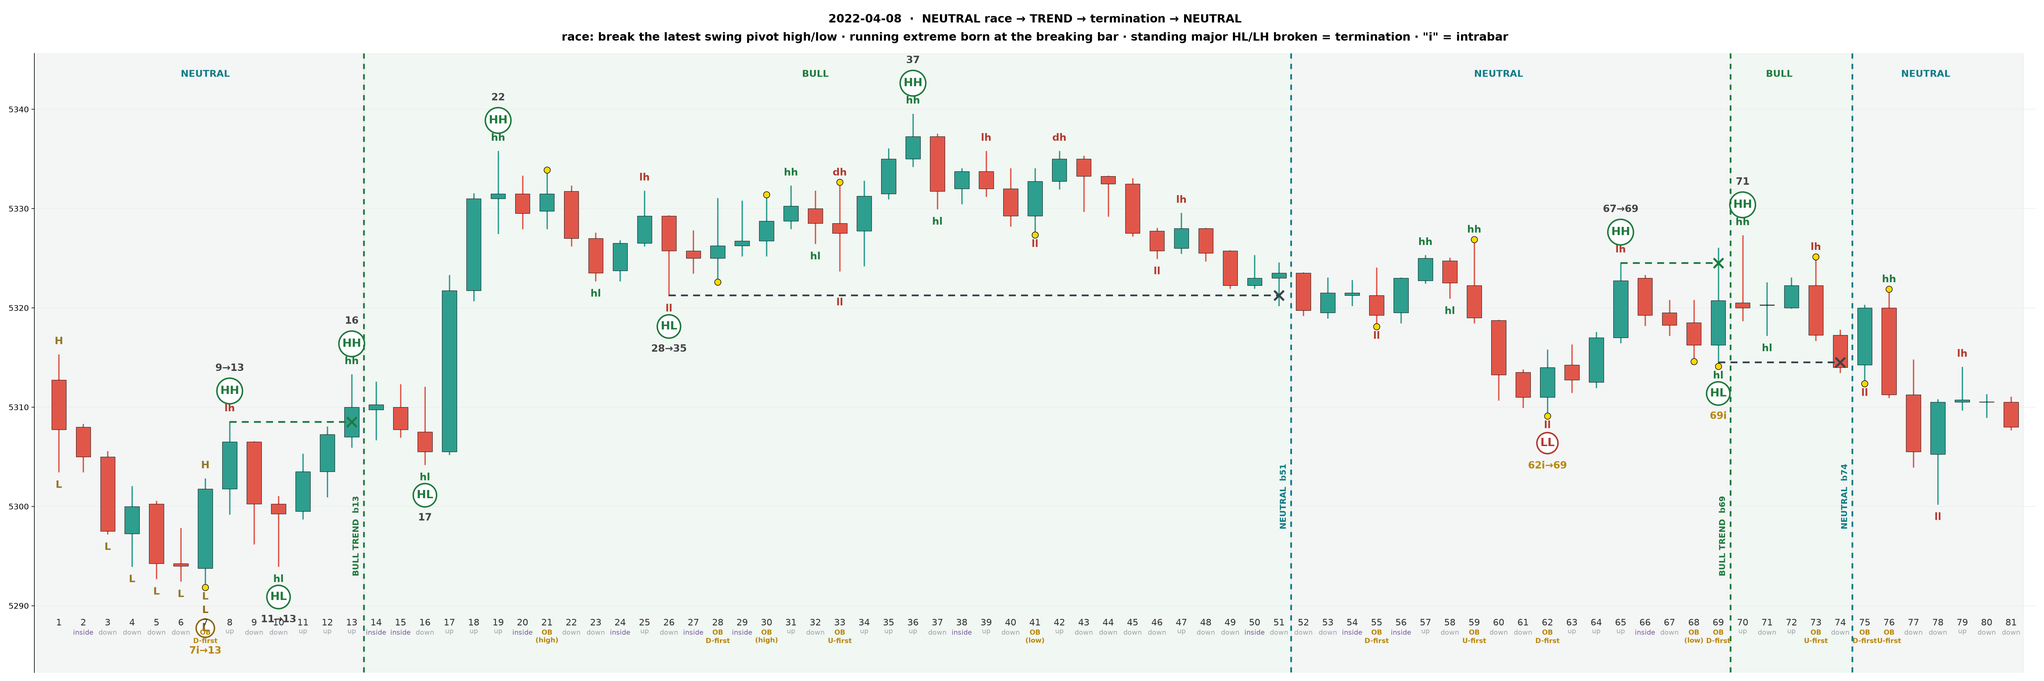
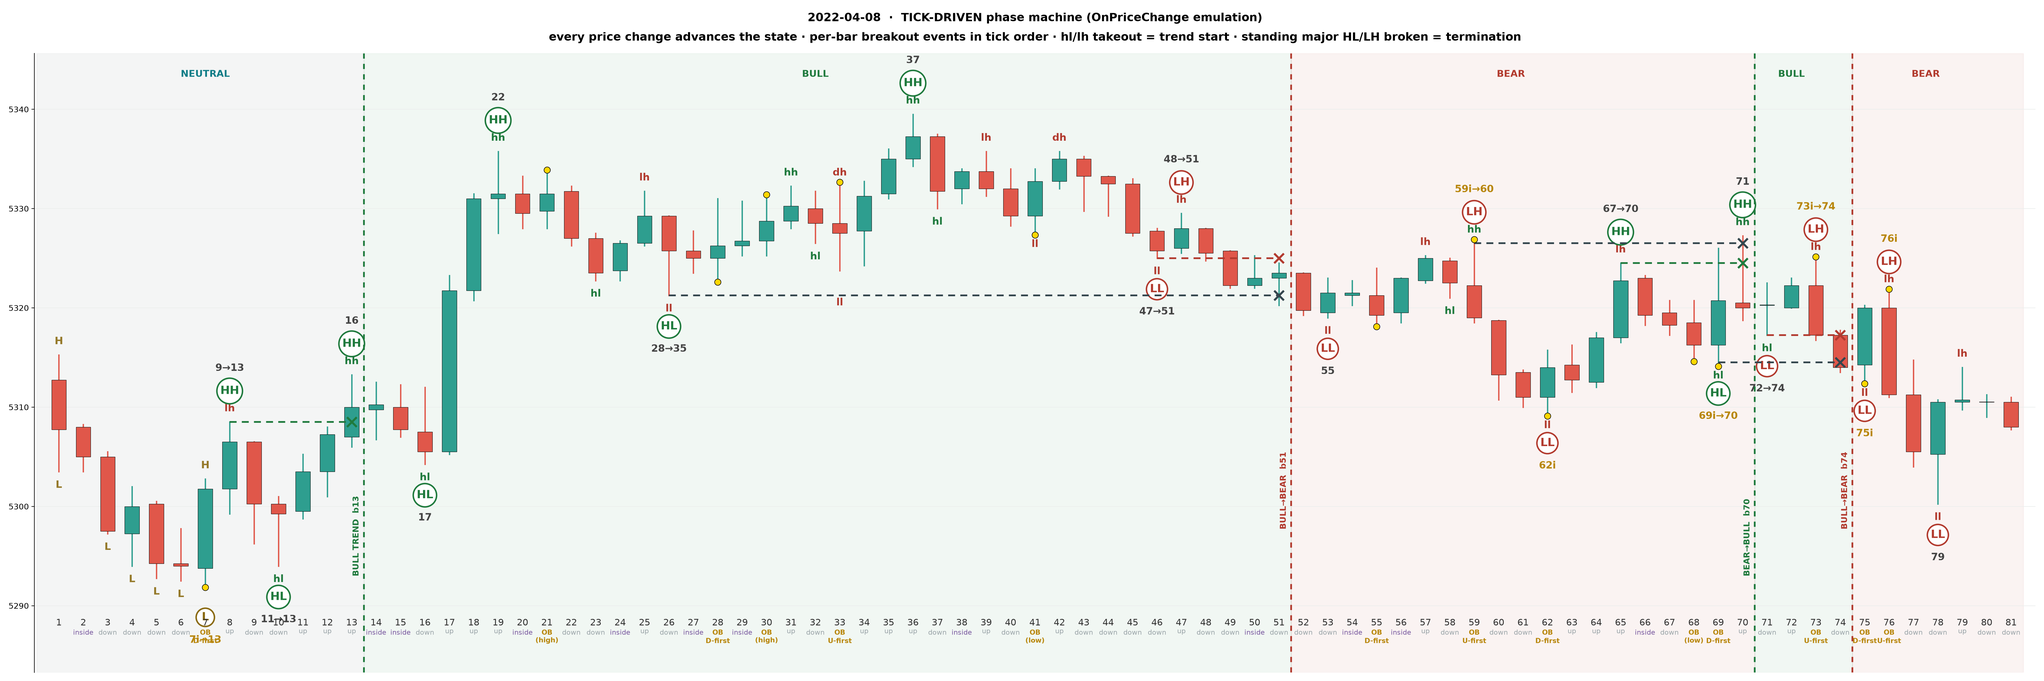
feat(regime-v2): immediate-flip rule + leg-continuation fix in the phase machine
Two new rules taught live against 2024-08-20 and 2023-04-12, plus a real bug
the second one exposed and fixed.

IMMEDIATE FLIP (2024-08-20, b56): counter-trend minor structure that forms
INSIDE a dying trend (tracked continuously now, in every mode) can satisfy the
OPPOSITE race on the same tick that terminates the trend - a bear's own minor
hh+hl breaks its own LH and starts a bull with no neutral pause. Guarded so
the enabling partner must postdate the candidate, or it fires on any leftover
structure and spuriously flips terminations that were already validated.

LEG CONTINUATION (2023-04-12, b12/b13): the leg and tag-comparison chain no
longer reset at trend termination - only the regime state (mode/standing/
candidate/race trackers) does. The down-leg from b11 was still running
through b12 when the bull terminated there; killing the leg at that instant
discarded it, so b13's up-tick opened a brand-new leg instead of closing the
real one and b12 never became the pivot it should have been. With the leg
left alone, b13 correctly confirms b12 as a minor ll (vs the real prior
pivot b10) and the bear starts at b13 - exactly as taught.

An earlier same-session attempt at this fix (touch prevH/prevL only on the
side that broke, to fix 04-10's b25/b26 two-legs-down reading) was a step in
the right direction but caused a self-reference bug when the termination bar
itself later becomes a pivot. The final fix supersedes it: touch neither
[…]

diff --git a/scratchpad/regime_phase_machine.py b/scratchpad/regime_phase_machine.py
@@ -76,6 +76,12 @@ trend_starts = []  # (bar, "bull"|"bear", broken_pivot_bar)
 terms = []         # (standing_bar, standing_px, break_bar, "bull"|"bear")
 race_lines = []    # (pivot_bar, px, break_bar, "bull"|"bear")
 neutral_spans = [] # (start_bar, end_bar)
+transitions = []   # (bar, "start"|"term", side) in TRUE firing order - same-bar events can
+                    # go either way: term-then-start on an immediate flip (terminate() calls
+                    # start_trend()), or start-then-term when a wide/OB bar ticks through a
+                    # fresh trigger and then straight through its own brand-new standing
+                    # level (04-10 b78: starts bull, dies bull, same bar). A bar-number sort
+                    # can't tell these apart; only insertion order can.
 
 prevH = prevL = 0
 first_pivot_done = False
@@ -104,16 +110,22 @@ def add_pivot(bar, side, emit):
     piv.append(p)
     log.append((emit, "pivot %s on b%d (%s)%s" % (side, bar + 1, disp,
                 "  [intrabar]" if emit == bar else "")))
-    if mode == "NEUTRAL":
-        if side == "H":
-            lsh = p
-            if hi_p is None or H[bar] > H[hi_p["bar"]]: hi_p = p
-            if t == "lh" or len(disp) == 1: has_lh = True; struct_lh = p
-        else:
-            lsl = p
-            if lo_p is None or L[bar] < L[lo_p["bar"]]: lo_p = p
-            if t == "hl" or len(disp) == 1: has_hl = True; struct_hl = p
-    elif mode == "BULL" and side == "L":
+    # Latest-pivot / structure trackers run in EVERY mode, not just NEUTRAL - reset at every
+    # mode transition (start_trend / terminate), accumulated continuously in between. In
+    # NEUTRAL they drive the entry race; in TREND they capture the counter-trend minor
+    # structure forming INSIDE the trend (e.g. a bear's own minor hh + hl), which the next
+    # termination checks for an IMMEDIATE flip straight to the opposite trend (08-20: b53
+    # minor hh + b55 minor hl -> b56 breaks the bear's LH and fires bull on the same tick,
+    # no neutral pause) instead of always parking in neutral to wait for fresh pivots.
+    if side == "H":
+        lsh = p
+        if hi_p is None or H[bar] > H[hi_p["bar"]]: hi_p = p
+        if t == "lh" or len(disp) == 1: has_lh = True; struct_lh = p
+    else:
+        lsl = p
+        if lo_p is None or L[bar] < L[lo_p["bar"]]: lo_p = p
+        if t == "hl" or len(disp) == 1: has_hl = True; struct_hl = p
+    if mode == "BULL" and side == "L":
         # ONE candidate: a DEEPER low replaces it (old stays minor); otherwise minor forever
         if cand is None or L[bar] < L[cand["p"]["bar"]]:
             cand = dict(p=p, ref_px=run_px)
@@ -133,6 +145,7 @@ def add_pivot(bar, side, emit):
 
 def start_trend(up, b, px):
     global mode, standing, run_b, run_px, cand
+    global hi_p, lo_p, lsh, lsl, has_hl, has_lh, struct_hl, struct_lh
     side = "bull" if up else "bear"
     broken = lsh if up else lsl
     partner = struct_hl if up else struct_lh
@@ -148,28 +161,64 @@ def start_trend(up, b, px):
         opp["majlab"] = (opp["disp"] if len(opp["disp"]) == 1 else opp["tag"].upper())
     race_lines.append((broken["bar"], H[broken["bar"]] if up else L[broken["bar"]], b, side))
     trend_starts.append((b, side, broken["bar"]))
+    transitions.append((b, "start", side))
     neutral_spans.append((neu_start, b))
     standing = None
     if partner is not None:
         standing = (partner["bar"], L[partner["bar"]] if up else H[partner["bar"]])
     run_b, run_px = b, px            # running extreme born at the breaking tick
     mode = "BULL" if up else "BEAR"; cand = None
+    hi_p = lo_p = lsh = lsl = None; has_hl = has_lh = False   # fresh scope for the new trend
+    struct_hl = struct_lh = None
     log.append((b, "*** %s TREND STARTS - b%d breaks the b%d pivot"
                 % (side.upper(), b + 1, broken["bar"] + 1)))
 
 
-def terminate(b):
+def terminate(b, px):
     global mode, standing, run_b, run_px, cand, d, leg_px, leg_bar, neu_start
     global hi_p, lo_p, lsh, lsl, has_hl, has_lh, struct_hl, struct_lh, prevH, prevL
+    was_bull = (mode == "BULL")
     terms.append((standing[0], standing[1], b, mode.lower()))
-    log.append((b, "*** %s TREND TERMINATED - b%d breaks the b%d %s -> NEUTRAL"
-                % (mode, b + 1, standing[0] + 1, "HL" if mode == "BULL" else "LH")))
+    transitions.append((b, "term", mode.lower()))
+    # IMMEDIATE FLIP: the counter-trend minor structure already formed INSIDE the dying
+    # trend (lsh/has_hl or lsl/has_lh, tracked continuously - see add_pivot) may already
+    # satisfy the OPPOSITE race at this same tick. If so, skip neutral and start the new
+    # trend right away (08-20 b56: bear's own minor hh@53 + hl@55 -> bull fires on the
+    # break, not after a fresh seed forms).
+    # the enabling partner must have formed AFTER the candidate (hh THEN hl, b53 then b55 -
+    # not some stale lh from back near the trend's own start) or this fires on ANY leftover
+    # structure, which spuriously flipped the validated b71/b74 terminations in testing
+    flip_up = (not was_bull) and lsh is not None and px > H[lsh["bar"]] and has_hl \
+              and struct_hl is not None and struct_hl["bar"] > lsh["bar"]
+    flip_dn = was_bull and lsl is not None and px < L[lsl["bar"]] and has_lh \
+              and struct_lh is not None and struct_lh["bar"] > lsl["bar"]
+    log.append((b, "*** %s TREND TERMINATED - b%d breaks the b%d %s%s"
+                % (mode, b + 1, standing[0] + 1, "HL" if was_bull else "LH",
+                   "" if (flip_up or flip_dn) else " -> NEUTRAL")))
     mode = "NEUTRAL"; neu_start = b
     cand = None; standing = None; run_b = run_px = None
-    hi_p = lo_p = lsh = lsl = None; has_hl = has_lh = False
-    struct_hl = struct_lh = None
-    prevH = b; prevL = b             # termination bar joins the comparison chain, never a pivot
-    d = None; leg_px = leg_bar = None    # the open leg dies with the trend
+    # prevH/prevL are NOT touched here at all - termination is purely a REGIME-state event.
+    # An earlier version forced the termination bar onto the comparison chain (on the side
+    # that broke), which fixed 04-10's b25 (correctly reading lh vs b14, not the b21
+    # termination bar) - but it broke the moment the termination bar ITSELF later turns out
+    # to be a genuine pivot (2023-04-12 b12: comparing L[12] to a prevL that had JUST been
+    # set to b12 is a self-reference, producing dl instead of the real ll vs b10). Leaving
+    # prevH/prevL untouched resolves both: whatever pivot forms next - on the termination
+    # bar itself or later - naturally compares against the real last prior pivot, because
+    # the tag chain was never interrupted in the first place.
+    # The LEG ITSELF does NOT reset at termination - it keeps running exactly as it would
+    # have anyway. Killing it here was an unvalidated guess that broke real structure
+    # (2023-04-12: the down-leg from b11 was running through b12 when the bull terminated
+    # AT b12; resetting the leg discarded that leg entirely, so b13's up-tick opened a
+    # brand-new leg instead of closing the real one, and b12 never got to be the pivot it
+    # should be - "b13 triggers above b12, which makes b12 a minor ll"). Only the REGIME
+    # state (mode/standing/cand/race trackers) belongs to the trend and resets with it.
+    if flip_up or flip_dn:
+        log.append((b, "    counter-trend structure already satisfies the race -> immediate flip"))
+        start_trend(flip_up, b, px)  # uses the still-populated lsh/lsl/struct_*/hi_p/lo_p
+    else:
+        hi_p = lo_p = lsh = lsl = None; has_hl = has_lh = False
+        struct_hl = struct_lh = None
 
 
 # ============================ TICK LOOP — OnPriceChange emulation ============================
@@ -223,7 +272,7 @@ for _t in range(len(tP)):
         if mode == "BEAR" and px < run_px: run_b, run_px = b, px
         if standing is not None:
             if (mode == "BULL" and px < standing[1]) or (mode == "BEAR" and px > standing[1]):
-                terminate(b)
+                terminate(b, px)
 
 if mode == "NEUTRAL":
     neutral_spans.append((neu_start, n - 1))
@@ -269,10 +318,12 @@ vhi = H.max(); vlo = L.min(); rng = vhi - vlo; off = rng * 0.021
 fig, ax = plt.subplots(figsize=(36, 12), dpi=200)
 
 segs = []
-bounds = sorted([(s_, "start", sd) for (s_, sd, _) in trend_starts] +
-                [(b_, "term", None) for (_, _, b_, _) in terms])
+# walk `transitions` in TRUE firing order (stable sort by bar preserves same-bar insertion
+# order) - a bar-number-only sort can't distinguish term-then-start (flip) from
+# start-then-term (a wide bar that starts a trend and kills it before the bar even ends,
+# e.g. 04-10 b78), and guessing wrong mislabels every bar after it
 cur = "neutral"; x0 = 0
-for (xb, ktp, sd) in bounds:
+for (xb, ktp, sd) in sorted(transitions, key=lambda e: e[0]):
     segs.append((x0, xb, cur)); x0 = xb
     cur = sd if ktp == "start" else "neutral"
 segs.append((x0, n - 1, cur))
@@ -343,12 +394,29 @@ for (pb, px_, bb_, sdv) in terms:
     ax.plot([pb, bb_], [px_, px_], ls=(0, (4, 3)), lw=2.2, color="#33454d", zorder=5)
     ax.plot(bb_, px_, "x", ms=12, mew=2.6, color="#33454d", zorder=6)
 
-_evt = ([(bb_, "term", sdv) for (_, _, bb_, sdv) in terms] +
-        [(sb, "start", sdv) for (sb, sdv, _) in trend_starts])
-_evt.sort()
+# group by bar in TRUE firing order (see `transitions`). A term-then-start pair with
+# OPPOSITE sides is a genuine immediate flip -> one merged arrow label (08-20 b56: bear
+# terminates, bull starts, same tick). Any other same-bar combination (e.g. start-then-term,
+# same side - 04-10 b78: a wide bar starts a bull and kills it before the bar ends) is NOT a
+# flip and gets two separate, correctly-ordered labels instead of a misleading merge.
+_by_bar = {}
+for (xb, ktp, sd) in transitions:
+    _by_bar.setdefault(xb, []).append((ktp, sd))
+_evt = []
+for xb, evs in _by_bar.items():
+    if len(evs) == 2 and evs[0][0] == "term" and evs[1][0] == "start" and evs[0][1] != evs[1][1]:
+        _evt.append((xb, "flip", (evs[0][1], evs[1][1])))
+    else:
+        for (ktp, sd) in evs:
+            _evt.append((xb, ktp, sd))
+_evt.sort(key=lambda e: e[0])
 for _k, (xb, ekind, sdv) in enumerate(_evt):
     if ekind == "term":
         col = "#0e7c86"; txt = "NEUTRAL  b%d" % (xb + 1)
+    elif ekind == "flip":
+        was, now = sdv
+        col = "#1f7a3d" if now == "bull" else "#b23a2e"
+        txt = "%s→%s  b%d" % (was.upper(), now.upper(), xb + 1)
     else:
         col = "#1f7a3d" if sdv == "bull" else "#b23a2e"
         txt = "%s TREND  b%d" % (sdv.upper(), xb + 1)

diff --git a/docs/living/handoff.md b/docs/living/handoff.md
@@ -1,66 +1,122 @@
 # Handoff — Current State
 **Status:** Living — update every session  
-**Last Updated:** July 23, 2026 (⭐ TICK-DRIVEN phase machine — full regime rule set taught by Samir, both reference days reproduce exactly; the target is a live NT8 OnPriceChange indicator)
+**Last Updated:** July 23, 2026, evening pass (⭐ TICK-DRIVEN phase machine — immediate-flip
+rule + leg-continuation fix, both taught live against 2024-08-20 and 2023-04-12; both
+reference days still reproduce exactly; 12 charts rendered on the final engine)
 
 ---
 
-## ⭐ TICK-DRIVEN REGIME MACHINE — the full rule set (2026-07-23, branch `main`)
+## ⭐ TICK-DRIVEN REGIME MACHINE — immediate flips + the leg-continuation fix (2026-07-23 evening, branch `main`)
 
 **`scratchpad/regime_phase_machine.py` (v4) is the working model of the regime engine and the
 single source of truth for the rules.** The end goal is a LIVE NT8 indicator running
 `Calculate.OnPriceChange`; the script emulates exactly that on historical ticks — **the
-machine's clock is EVERY PRICE CHANGE**, bars are only bookkeeping. Samir: "emulate the
-indicator's logic even when you draw these charts." Runs any day:
+machine's clock is EVERY PRICE CHANGE**, bars are only bookkeeping. Runs any day:
 `python scratchpad/regime_phase_machine.py YYYY-MM-DD` → `docs/living/phase_machine_<date>.png`.
+This session added two real rules and fixed one bug that both rules exposed — see below.
+**Not committed to `scripts/brooks_regime_layer.py` yet** — still lives only in the scratch
+phase machine.
 
-### The rule set (all taught/validated bar-by-bar with Samir on 02-24 + 04-12)
+### The rule set (all taught/validated against 02-24 + 04-12 + 2024-08-20 + 2023-04-12)
 1. **Events:** each bar has at most two — the FIRST tick above the prior bar's high and the
    FIRST tick below the prior bar's low, in tick order. An OB is two consecutive steps
-   sharing a bar; each event applies the regime logic against live state, and every price
-   change advances race/promotion/termination checks. (This dissolved ALL the OB special
-   cases — the earlier bar-loop machine kept tripping precisely because it checked state
-   once per bar.) Equal bar = perfect inside bar (strict comparisons, free).
+   sharing a bar; each event applies the regime logic against live state. Equal bar =
+   perfect inside bar (strict comparisons, free).
 2. **Pivots:** an event that closes a leg drops the pivot on the bar holding the leg's
    tick-accurate extreme (can be an earlier bar). Day's first pivot = single gold letter.
-   Minor tags currently compare vs the prior same-side PIVOT (Samir's convention may be
-   two-bar tags — open display question). Terminations kill the open leg: the termination
-   bar can never carry a pivot, but its extremes join the tag-comparison chain (b43 on
-   04-12 reads lh vs b41's high).
-3. **NEUTRAL + the race:** day opens neutral; every termination returns there. Pivots keep
-   forming (b43!). A tick above the latest swing-high pivot with an **hl present** → BULL;
-   a tick below the latest swing-low pivot with an **lh present** → BEAR ("hl gets taken
-   out in a neutral phase", same logic as b31/b50; single-letter first pivots count as
-   compatible). OBs can do it intrabar: b50 (bear, U confirms the b49 hl then D takes it
-   out), b76 (bull mirror). b45 could NOT start a bull: lows were ll — no hl. At the start:
-   broken pivot → HH/LL, enabling hl/lh → HL/LH (standing level), phase's opposite-extreme
-   pivot → uppercased tag (b25→HH); running trend extreme born at the breaking tick.
-4. **TREND:** a swing pivot that IS the running extreme (identity test, bar==run_b — an
-   equal low is a dl, never a new extreme: b19) → major continuation HH/LL at its turn.
-   Counter-trend pivots: ONE-candidate contest (deeper replaces, replaced stays minor
-   forever); promotion when a tick exceeds the running extreme that stood at candidate-set
-   → major HL/LH = the STANDING level. A tick through the standing level TERMINATES.
-5. **Chart conventions:** dashed level from pivot to its break + ✗, dotted verticals at
-   starts/terminations (no price labels), state shading, "i" = intrabar confirm,
-   "N→M" = known at N, promoted major at M, gold dots = OB first-break side.
+   Minor tags compare vs the prior same-side PIVOT (Samir's convention may be two-bar tags —
+   open display question).
+3. **⭐ THE LEG DOES NOT RESET AT TERMINATION (new, fixes a real bug).** Only the REGIME
+   state (mode/standing/cand/race trackers) belongs to the trend and resets when it
+   terminates; the underlying leg (`d`/`leg_bar`) and the tag-comparison chain
+   (`prevH`/`prevL`) keep running exactly as they would have anyway, completely untouched by
+   termination. **Taught via 2023-04-12: bull terminates at b12 (breaks the b10 HL); the
+   down-leg from b11 was still running THROUGH b12 at that moment.** The old code killed the
+   leg right there, so b13's up-tick (b13 is an OB) opened a brand-new leg instead of closing
+   the real one — b12 never became the pivot it should have been. With the leg left alone:
+   b13 ticks above b12 → **confirms b12 as a genuine minor `ll`** (vs the real prior L-pivot
+   b10, not a self-reference) → b13 ticks below → BEAR STARTS AT B13, both b12→LL and
+   b13→LH promoted together. Exactly Samir's read: *"b13 triggers above b12 (makes b12 a
+   minor ll), then triggers below b12's ll and makes a LL — bear trend starting on b13."**
+   An **earlier same-session fix attempt** (only update `prevH`/`prevL` on the side that
+   broke, to fix 04-10's b25/b26 — see below) was a step in the right direction but caused a
+   **self-reference bug**: when the termination bar itself later becomes a pivot (like b12
+   here), comparing it against a `prevL` that had JUST been set to point at itself produces a
+   meaningless `dl` instead of the real `ll`. **The final fix supersedes it**: touch NEITHER
+   prevH nor prevL at termination, ever. Both the b25/04-10 case and the b12/2023-04-12 case
+   resolve correctly this way, because the chain was simply never interrupted.
+4. **⭐ TWO-LEGS-DOWN / two-legs-up (04-10, b26).** Because the leg and tag chain now run
+   continuously, a lower high that forms AFTER a termination correctly compares against the
+   real pre-termination high (b14), not the termination bar's arbitrary price (b21) — so b25
+   properly tags `lh`, `has_lh` goes true, and the bear fires at **b26** (breaking b22) the
+   moment real two-legs-down structure exists, rather than waiting until b33 for a fresh lh
+   to form from scratch. This was a genuine display/logic bug in the ORIGINAL (pre-tonight)
+   engine, not a new rule — the two-legs-down pattern was always supposed to be visible.
+5. **⭐ IMMEDIATE FLIP (2024-08-20, b56).** Counter-trend minor structure that forms INSIDE a
+   dying trend (tracked continuously now, in every mode — `lsh`/`lsl`/`has_hl`/`has_lh`) can
+   satisfy the OPPOSITE race on the SAME tick that terminates the trend. b53 (minor hh) + b55
+   (minor hl), both formed while still technically in the bear, break the bear's own LH (b41)
+   AND independently clear b53 at the same instant → BULL STARTS AT B56, no neutral pause.
+   Guard: the enabling partner must postdate the candidate (b55 after b53) — an unguarded
+   version fired on ANY leftover structure and spuriously flipped the validated b71/b74
+   terminations on 02-24/04-12 during testing. Confirmed fires again on 04-08 (3x), 04-10
+   (b38, b78), 2023-04-12 (b30), 2022-02-17 (b37), 2025-04-14 (b77), 2021-09-28 (b76),
+   2024-03-01 (b33, b68).
+6. **NEUTRAL + the race:** day opens neutral; every termination returns there (or, per #5,
+   immediately into the opposite trend). A tick above the latest swing-high pivot with an
+   **hl present** → BULL; below the latest swing-low with an **lh present** → BEAR. At the
+   start: broken pivot → HH/LL, enabling hl/lh → HL/LH (standing level), phase's
+   opposite-extreme pivot → uppercased tag (b25→HH on 04-12, blessed on his NT chart —
+   same-tag duplicate on 2023-04-12's b13/b17 (both LH) is this SAME mechanism, not a bug:
+   opp=highest-price pivot in phase vs partner=latest pivot, here both happen to already be
+   tagged `lh`). Running trend extreme born at the breaking tick.
+7. **TREND:** a swing pivot that IS the running extreme (identity test, `bar==run_b`) → major
+   continuation HH/LL at its turn. Counter-trend pivots: ONE-candidate contest (deeper
+   replaces, replaced stays minor forever); promotion when a tick exceeds the running extreme
+   that stood at candidate-set → major HL/LH = the STANDING level. A tick through it
+   TERMINATES.
+8. **Chart / display:** same-bar term+start pairs need TRUE firing order, not a bar-number
+   sort — term-then-start (an immediate flip) vs start-then-term (a wide/OB bar that starts a
+   trend and kills it before the bar ends, e.g. 04-10 b78, real and tick-verified) are
+   opposite orderings and guessing wrong mislabels every bar after. Fixed via a `transitions`
+   list appended in true chronological order; the merged "X→Y" arrow label is used ONLY for
+   genuine opposite-side flips, never for a same-side start-then-term.
+
+### ⚠ Documentation correction
+Last session's note **"b43 on 04-12 reads lh vs b41's high" was wrong** — b41's high
+(5256.50) is genuinely above the prior H-pivot b38 (5254.00), so `hh` is mechanically
+correct by the same rule every other tag uses. b41 was never a major pivot either way, so
+this never affected any trend timing — it was a documentation error (likely conflated with
+the real b43 teaching, which is about 2024-08-20's b43/b44/b45, not 04-12).
 
 ### Validation state
-- **2022-02-24** (bull ref) and **2022-04-12** (bear ref): reproduce Samir's bar-by-bar
-  teaching EXACTLY on the tick engine (starts b9/b71/b77 and b10/b22/b31/b41/b50/b74/b76).
-- Rendered BLIND, unreviewed: 2022-04-08, 2023-04-12, 2023-10-26, 2022-02-17. The choppy
-  days (2023-04-12, 2023-10-26) show fast trend/neutral churn (3-5 bar trends, b79 on
-  10-26 starts and terminates the same bar) → likely where the S72 **ATTEMPT states** live.
+- **2022-02-24** (bull) and **2022-04-12** (bear): reproduce Samir's bar-by-bar teaching
+  EXACTLY, pivot-tag-by-pivot-tag (checked in full this time, not just the starts/terms
+  summary — the summary alone already missed one regression during tonight's work).
+- **2024-08-20** and **2023-04-12**: the two days the new rules were taught against; both
+  match Samir's read exactly (b56 flip; b13 bear start).
+- Rendered and RE-rendered on the final engine, still unreviewed by Samir: 2022-04-08,
+  2023-10-26, 2022-02-17, 2025-04-14, 2022-11-14, 2021-09-28, 2024-03-01, 2024-04-10. Three
+  of these picked up genuinely NEW legs from the leg-continuation fix that weren't visible
+  before (more structure recognized, not less) — worth a first look: **2022-02-17** (new
+  bull b28→n31), **2025-04-14** (new bull b7→n10, new bear b42→n43), **2022-11-14** (new
+  bear b58→n61).
 
 ### OPEN
-1. Review the blind days with Samir; decide whether fast flips are full trends or ATTEMPTs
-   (the last conceptual gap to the 5-state BULL/BULL_ATTEMPT/NEUTRAL/BEAR_ATTEMPT/BEAR).
-2. For review: opposite-extreme promotion at a start (b25→HH blessed on his NT chart;
-   mirror gives 02-24 b72→LL@77 which was previously minor — flagged, not yet ruled on).
-3. Minor-tag convention: pivot-chain (current) vs raw two-bar tag (his NT chart) — display.
-4. Port to NT8 C# (`Calculate.OnPriceChange`) — the tick loop body IS the handler. Also
-   decide fate of `scripts/brooks_regime_layer.py` (still pre-equal-bar-fix divergent
-   `brooks_structure_engine.py`; the phase machine supersedes both for regime purposes).
-5. Artifacts (zoomable): 02-24 `5b99e290`, 04-12 `bf90a2b5`, 04-08 `911170f3`,
-   2023-04-12 `084292c2`, 10-26 `07eeec60`, 02-17 `dbe4dc5f`.
+1. Review the still-unreviewed blind days with Samir, especially the three with new legs
+   above. Decide whether fast/short-lived flips (04-08 has three immediate flips back to
+   back) are full trends or should be ATTEMPT states — the last conceptual gap to the
+   5-state BULL/BULL_ATTEMPT/NEUTRAL/BEAR_ATTEMPT/BEAR ladder.
+2. Minor-tag convention: pivot-chain (current) vs raw two-bar tag (his NT chart) — display
+   only, structure unaffected either way.
+3. Port to NT8 C# (`Calculate.OnPriceChange`) — the tick loop body IS the handler almost
+   verbatim now. Also decide fate of `scripts/brooks_regime_layer.py` (still
+   pre-equal-bar-fix divergent from `brooks_structure_engine.py`; the phase machine
+   supersedes both for regime purposes).
+4. Artifacts (zoomable, all on the final engine as of this session):
+   02-24 `5b99e290` · 04-12 `bf90a2b5` · 08-20 `4553b1f7` · 04-10 `0f0d27f2` ·
+   04-08 `911170f3` · 2023-04-12 `084292c2` · 10-26 `07eeec60` · 02-17 `dbe4dc5f` ·
+   2025-04-14 `2b8e7115` · 11-14 `9dc85e2b` · 09-28 `b4b3230b` · 03-01 `a8dcb44b`.
 
 **Two-PC workflow (agreed 2026-07-23):** main pushed after this session; each PC works its
 own topic branch off main, merges back to main at session end (handoff.md edited on main,
